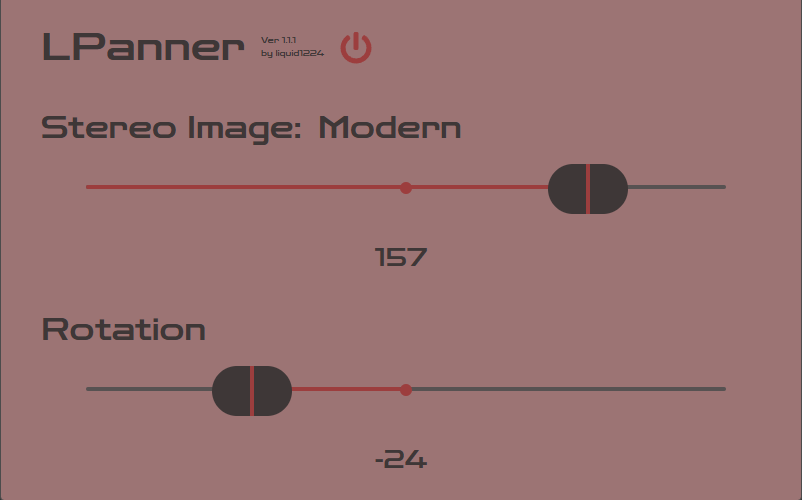
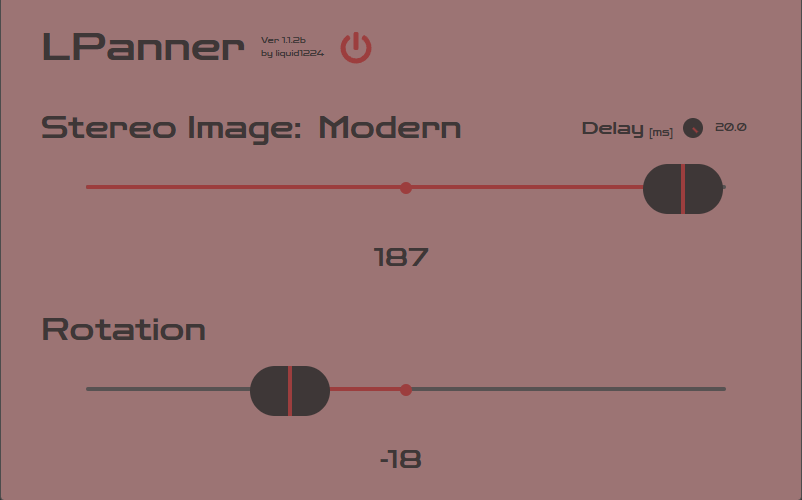
Update: 1.1.2b

diff --git a/webview/src/components/JuceKnob.tsx b/webview/src/components/JuceKnob.tsx
@@ -18,7 +18,7 @@ interface JuceKnobProps {
 
 // Styled input field
 const KnobInput = styled.input<{ $primaryColor: string; $secondaryColor: string }>`
-  width: 30px;
+  width: 40px;
   font-family: inherit;
   font-size: 10px;
   border: none;

diff --git a/README.md b/README.md
@@ -1,6 +1,6 @@
 # LPanner VST3 Plugin
 
-**Version:** 1.1.2
+**Version:** 1.1.2b 
 **Developer:** liquid1224
 
 ![screenshot](/Readme.assets/screenshot.png)
@@ -111,6 +111,10 @@ MIT
 Create new issue for support, bug reports, or feature requests.
 
 ## Changelog
+
+### 1.1.2b
+
+- Fixed some layouts
 
 ### 1.1.2
 
